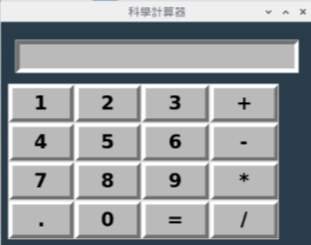
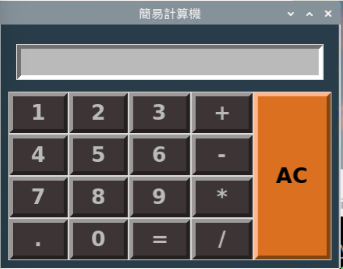
更新

diff --git a/D06_居家溫濕度+tkinter/4_TK計算機.md/2_程式碼_簡易計算機.md b/D06_居家溫濕度+tkinter/4_TK計算機.md/2_程式碼_簡易計算機.md
@@ -1,20 +1,27 @@
 # 簡易計算機程式碼
 
+_標題改為 `簡易` 計算機_
+
 ```python
 from tkinter import *
 # 初始化Tkinter視窗
 tk_calc = Tk()
-tk_calc.configure(bg="#293C4A", bd=10)  # 設定背景顏色和邊界寬度
-tk_calc.title("科學計算機")  # 設定標題
+# 設定背景顏色和邊界寬度
+tk_calc.configure(bg="#293C4A", bd=10)  
+# 設定標題
+tk_calc.title("簡易計算機")  
 
 
 '''全局變數'''
 # 創建一個 StringVar 類型的字串變數來存儲結果運算框的文本
 text_input = StringVar() 
-# 先設定按鍵樣式
+
+# 兩種按鍵顏色模試
 button_params_main = {'bd': 5, 'fg': '#BBB', 'bg': '#3C3636', 'font': ('sans-serif', 20, 'bold')}
 # button_params_main = {'bd': 5, 'fg': '#000', 'bg': '#BBB', 'font': ('sans-serif', 20, 'bold')}
+# AC 按鍵使用不同顏色
 button_params_AC = {'bd': 5, 'fg': '#000', 'bg': '#db701f', 'font': ('sans-serif', 20, 'bold'),}
+
 # 初始化計算符號為空字串
 calc_operator = ""  
 
@@ -83,8 +90,8 @@ Button(
     sticky="nsew"
 )
 
-
-# 按鈕物件
+# 加減乘除的按鈕物件：+-*/ 
+# +
 Button(
     tk_calc, 
     button_params_main, 
@@ -94,6 +101,7 @@ Button(
         column=3, 
         sticky="nsew"
     )
+# -
 Button(
     tk_calc, 
     button_params_main, 
@@ -103,6 +111,7 @@ Button(
         column=3, 
         sticky="nsew"
     )
+# *
 Button(
     tk_calc, 
     button_params_main, 
@@ -112,6 +121,7 @@ Button(
         column=3, 
         sticky="nsew"
     )
+# /
 Button(
     tk_calc, 
     button_params_main, 
@@ -132,7 +142,7 @@ Button(
     column=0, 
     sticky="nsew"
 )
-# 創建等於按鈕
+# 等號按鈕
 Button(
     tk_calc, 
     button_params_main, 
@@ -156,5 +166,6 @@ Button(
     sticky="nsew"
 )
 
+# tk 進入 loop 運作
 tk_calc.mainloop()
 ```

diff --git a/D06_居家溫濕度+tkinter/4_TK計算機.md/1_基本架構.md b/D06_居家溫濕度+tkinter/4_TK計算機.md/1_基本架構.md
@@ -1,5 +1,7 @@
 # 計算機
 
+_簡易的計算機實作範例指引_
+
 <br>
 
 ## 完成示意圖
@@ -36,8 +38,10 @@
     from tkinter import *
     # 初始化Tkinter視窗
     tk_calc = Tk()
-    tk_calc.configure(bg="#293C4A", bd=10)  # 設定背景顏色和邊界寬度
-    tk_calc.title("科學計算機")  # 設定標題
+    # 設定背景顏色和邊界寬度
+    tk_calc.configure(bg="#293C4A", bd=10)  
+    # 設定標題
+    tk_calc.title("科學計算機")  
     tk_calc.mainloop()
     ```
 
